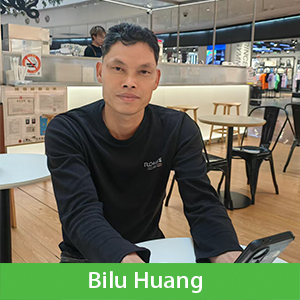
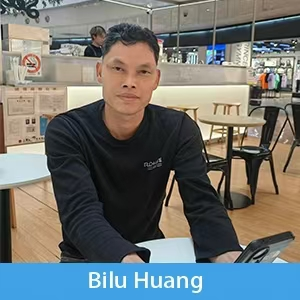
changed into team page and superlink color into blue

diff --git a/en/publications.html b/en/publications.html
@@ -23,7 +23,7 @@
                         <a href="#" class="dropbtn">About Us <i class="fas fa-chevron-down"></i></a>
                         <div class="dropdown-content">
                             <a href="bilu-huang.html">Bilu Huang</a>
-                            <a href="members.html">Group Members</a>
+                            <a href="team.html">Group Members</a>
                             <a href="lab-intro.html">Lab Intro</a>
                         </div>
                     </li>
@@ -186,12 +186,12 @@
         }
 
         a:hover {
-            color: #4CAF50;
+            color: #3498db;
             text-decoration: none;
         }
 
         a:active {
-            color: #45a049;
+            color: #3498db;
         }
     </style>
 </head>

diff --git a/en/team.html b/en/team.html
@@ -23,7 +23,7 @@
                 <a href="#" class="dropbtn">About Us <i class="fas fa-chevron-down"></i></a>
                 <div class="dropdown-content">
                     <a href="bilu-huang.html">Bilu Huang</a>
-                    <a href="members.html">Group Members</a>
+                    <a href="team.html">Group Members</a>
                     <a href="lab-intro.html">Lab Intro</a>
                 </div>
             </li>
@@ -145,12 +145,12 @@
         }
 
         a:hover {
-            color: #4CAF50;
+            color: #3498db;
             text-decoration: none;
         }
 
         a:active {
-            color: #45a049;
+            color: #3498db;
         }
     </style>
 </head>

diff --git a/team.html b/team.html
@@ -23,7 +23,7 @@
             <a href="#" class="dropbtn">关于我们 <i class="fas fa-chevron-down"></i></a>
             <div class="dropdown-content">
                 <a href="bilu-huang.html">黄必录</a>
-                <a href="members.html">团队成员</a>
+                <a href="team.html">团队成员</a>
                 <a href="lab-intro.html">实验室介绍</a>
             </div>
         </li>
@@ -141,12 +141,12 @@
         }
 
         a:hover {
-            color: #4CAF50;
+            color: #3498db;
             text-decoration: none;
         }
 
         a:active {
-            color: #45a049;
+            color: #3498db;
         }
     </style>
 </head>

diff --git a/publications.html b/publications.html
@@ -23,7 +23,7 @@
                         <a href="#" class="dropbtn">关于我们 <i class="fas fa-chevron-down"></i></a>
                         <div class="dropdown-content">
                             <a href="bilu-huang.html">黄必录</a>
-                            <a href="members.html">团队成员</a>
+                            <a href="team.html">团队成员</a>
                             <a href="lab-intro.html">实验室介绍</a>
                         </div>
                     </li>
@@ -186,7 +186,7 @@
         }
 
         a:hover {
-            color: #45a049;
+            color: #3498db;
             text-decoration: none;
         }
 

diff --git a/bilu-huang.html b/bilu-huang.html
@@ -69,7 +69,7 @@
                         <a href="#" class="dropbtn">关于我们 <i class="fas fa-chevron-down"></i></a>
                         <div class="dropdown-content">
                             <a href="bilu-huang.html">黄必录</a>
-                            <a href="members.html">团队成员</a>
+                            <a href="team.html">团队成员</a>
                             <a href="lab-intro.html">实验室介绍</a>
                         </div>
                     </li>

diff --git a/index.html b/index.html
@@ -41,7 +41,7 @@
                         <a href="#" class="dropbtn">关于我们 <i class="fas fa-chevron-down"></i></a>
                         <div class="dropdown-content">
                             <a href="bilu-huang.html">黄必录</a>
-                            <a href="members.html">团队成员</a>
+                            <a href="team.html">团队成员</a>
                             <a href="lab-intro.html">实验室介绍</a>
                         </div>
                     </li>

diff --git a/lab-intro.html b/lab-intro.html
@@ -35,7 +35,7 @@
                         <a href="#" class="dropbtn">关于我们 <i class="fas fa-chevron-down"></i></a>
                         <div class="dropdown-content">
                             <a href="bilu-huang.html">黄必录</a>
-                            <a href="members.html">团队成员</a>
+                            <a href="team.html">团队成员</a>
                             <a href="lab-intro.html">实验室介绍</a>
                         </div>
                     </li>

diff --git a/en/bilu-huang.html b/en/bilu-huang.html
@@ -69,7 +69,7 @@
                         <a href="#" class="dropbtn">About Us <i class="fas fa-chevron-down"></i></a>
                         <div class="dropdown-content">
                             <a href="bilu-huang.html">Bilu Huang</a>
-                            <a href="members.html">Group Members</a>
+                            <a href="team.html">Group Members</a>
                             <a href="lab-intro.html">Lab Intro</a>
                         </div>
                     </li>

diff --git a/en/index.html b/en/index.html
@@ -44,7 +44,7 @@
                         <a href="#" class="dropbtn">About Us <i class="fas fa-chevron-down"></i></a>
                         <div class="dropdown-content">
                             <a href="bilu-huang.html">Bilu Huang</a>
-                            <a href="members.html">Group Members</a>
+                            <a href="team.html">Group Members</a>
                             <a href="lab-intro.html">Lab Intro</a>
                         </div>
                     </li>

diff --git a/en/lab-intro.html b/en/lab-intro.html
@@ -35,7 +35,7 @@
                         <a href="#" class="dropbtn">About Us <i class="fas fa-chevron-down"></i></a>
                         <div class="dropdown-content">
                             <a href="bilu-huang.html">Bilu Huang</a>
-                            <a href="members.html">Group Members</a>
+                            <a href="team.html">Group Members</a>
                             <a href="lab-intro.html">Lab Intro</a>
                         </div>
                     </li>

diff --git a/en/resources.html b/en/resources.html
@@ -23,7 +23,7 @@
                 <a href="#" class="dropbtn">About Us <i class="fas fa-chevron-down"></i></a>
                 <div class="dropdown-content">
                     <a href="bilu-huang.html">Bilu Huang</a>
-                    <a href="members.html">Group Members</a>
+                    <a href="team.html">Group Members</a>
                     <a href="lab-intro.html">Lab Intro</a>
                 </div>
             </li>

diff --git a/research.html b/research.html
@@ -23,7 +23,7 @@
             <a href="#" class="dropbtn">关于我们 <i class="fas fa-chevron-down"></i></a>
             <div class="dropdown-content">
                 <a href="bilu-huang.html">黄必录</a>
-                <a href="members.html">团队成员</a>
+                <a href="team.html">团队成员</a>
                 <a href="lab-intro.html">实验室介绍</a>
             </div>
         </li>
